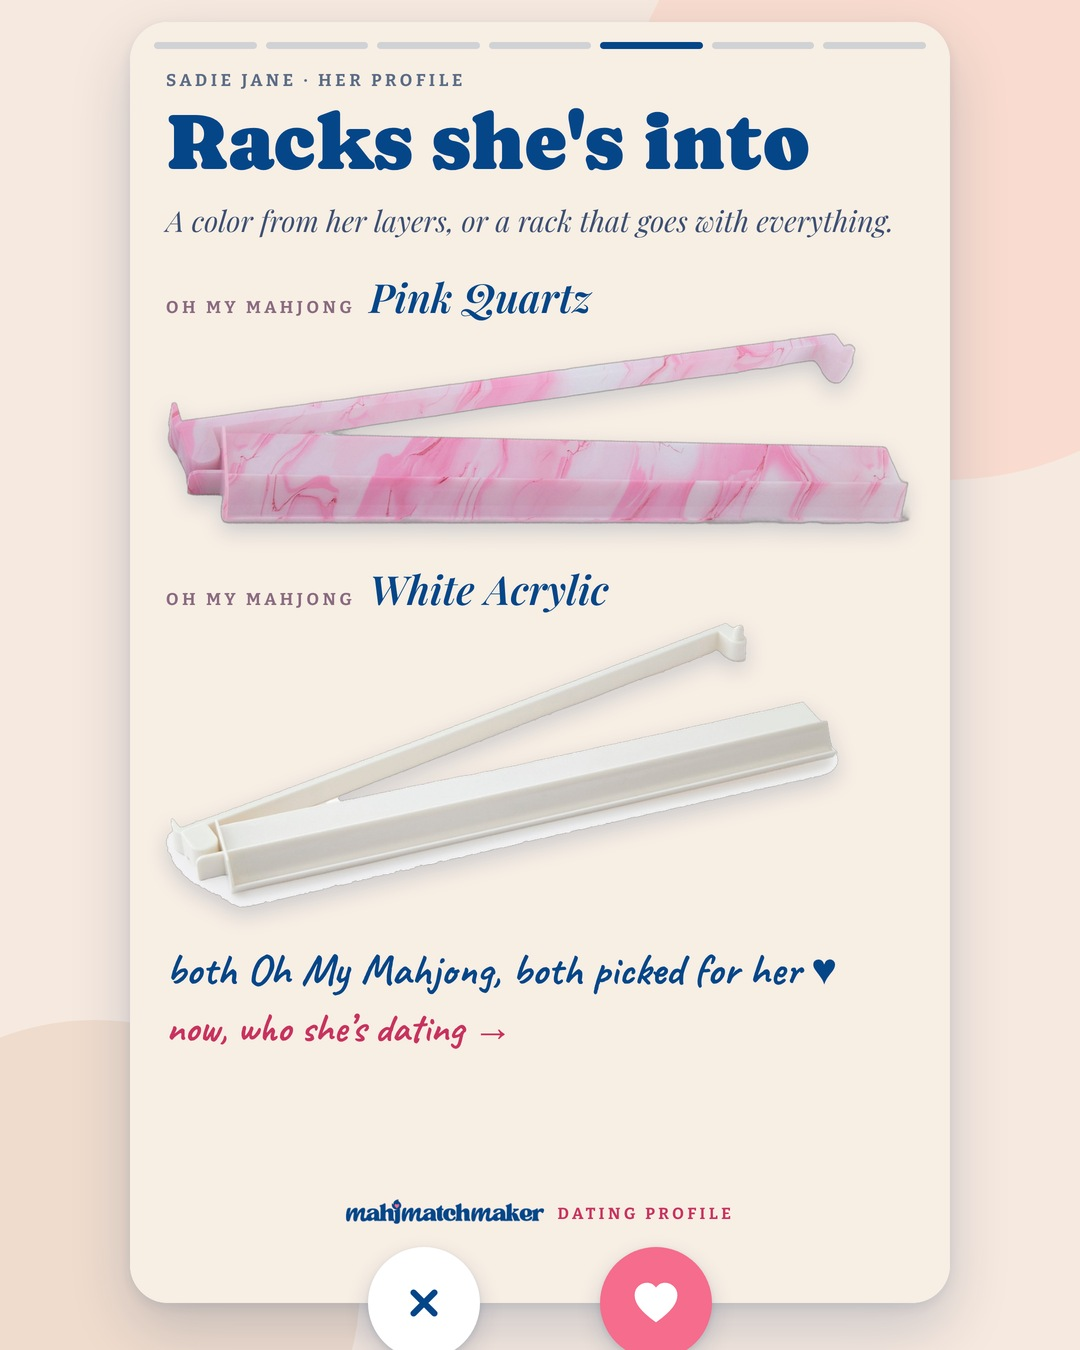
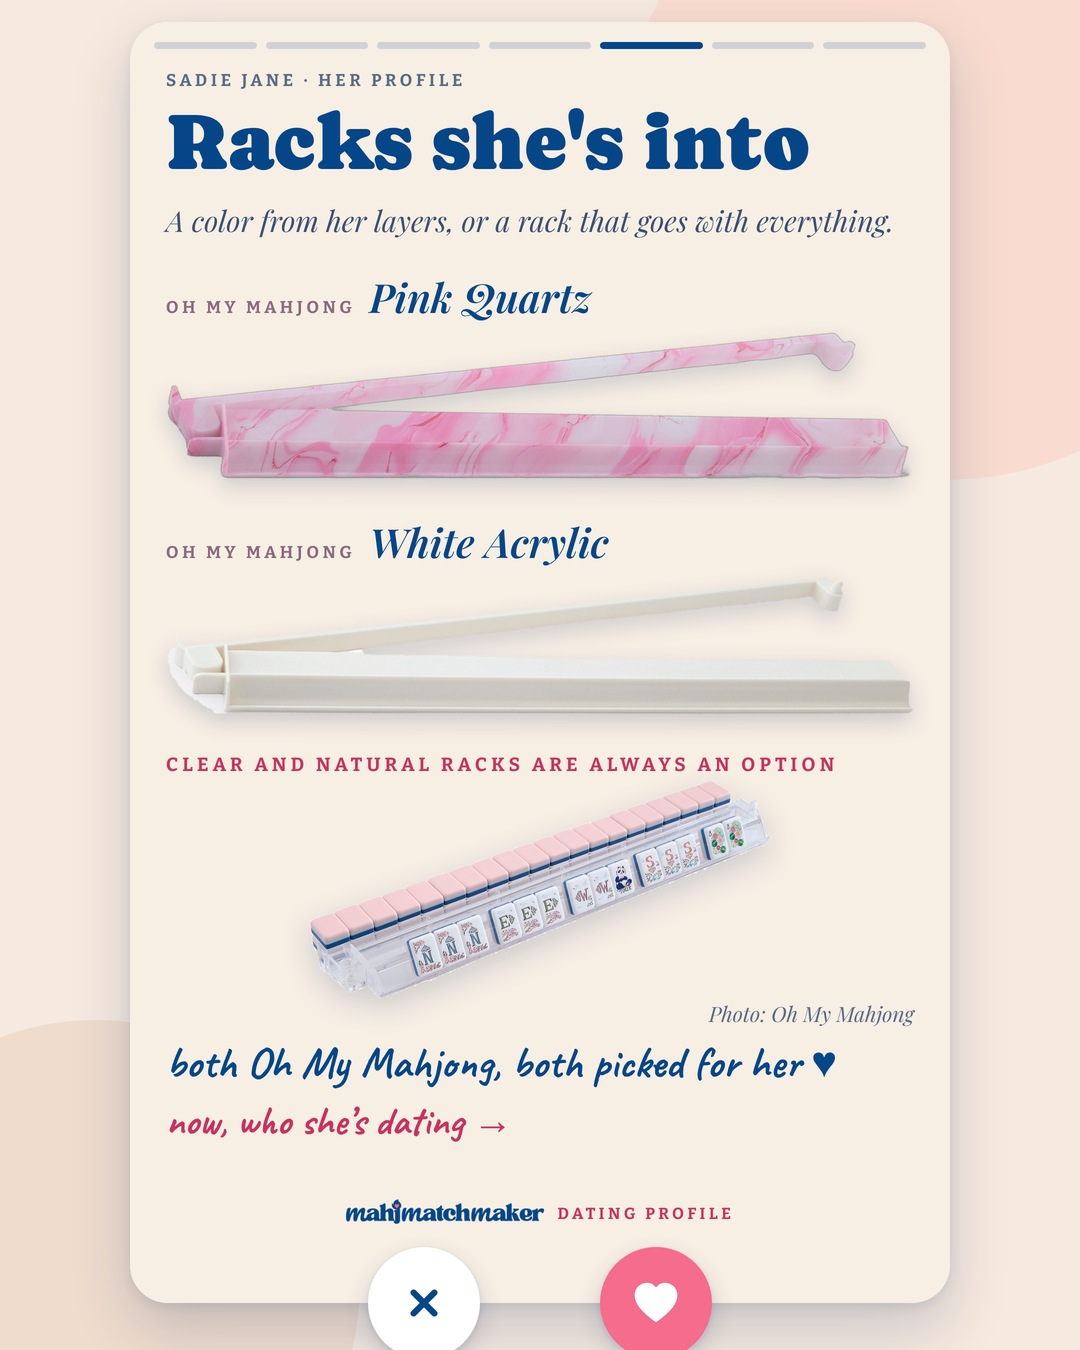
Sadie Jane profile racks slide: uniform OMM racks (real photos rotated to match), wall photo with clear/natural line
Claude-Session: https://claude.ai/code/session_01UWZfuwFYQL37EbBDGV2NZF

Changed region(s): [[0.1528, 0.2489, 0.8556, 0.84]]

diff --git a/scripts/social/tileprofile/intro_framed.py b/scripts/social/tileprofile/intro_framed.py
@@ -101,7 +101,7 @@ s4 = (hdr(('Her best features', 72)) +
       f'{ab(L, 676, "display:flex;justify-content:space-between", W)}{sing}</div>')
 
 # ---- slide 5: racks she's into
-RACK = {'Oh My Mahjong White Acrylic': 'assets/racks/card/oh-my-mahjong-white-acrylic-product.png', 'Bird & Bamboo Ballet Pink': 'assets/racks/card/bird-and-bamboo-ballet-pink.png', 'Bird & Bamboo French Blue': 'assets/racks/card/bird-and-bamboo-french-blue.png', 'Oh My Mahjong Pink Quartz': 'assets/racks/card/oh-my-mahjong-pink-quartz.png', 'Oh My Mahjong Hot Pink': 'assets/racks/card/oh-my-mahjong-hot-pink.png', 'Oh My Mahjong Agate': 'assets/racks/card/oh-my-mahjong-agate.png', 'Bird & Bamboo Lavender': 'assets/colorcards/papaya-spritz/racks/bird-and-bamboo-lavender.png', 'Peace Love Mahjong Chartreuse': 'assets/racks/card/peace-love-mahjong-chartreuse.png',
+RACK = {'Oh My Mahjong White Acrylic': 'assets/racks/card/oh-my-mahjong-white-acrylic-matched.png', 'Bird & Bamboo Ballet Pink': 'assets/racks/card/bird-and-bamboo-ballet-pink.png', 'Bird & Bamboo French Blue': 'assets/racks/card/bird-and-bamboo-french-blue.png', 'Oh My Mahjong Pink Quartz': 'assets/racks/card/oh-my-mahjong-pink-quartz-matched.png', 'Oh My Mahjong Hot Pink': 'assets/racks/card/oh-my-mahjong-hot-pink.png', 'Oh My Mahjong Agate': 'assets/racks/card/oh-my-mahjong-agate.png', 'Bird & Bamboo Lavender': 'assets/colorcards/papaya-spritz/racks/bird-and-bamboo-lavender.png', 'Peace Love Mahjong Chartreuse': 'assets/racks/card/peace-love-mahjong-chartreuse.png',
         'Peace Love Mahjong Oak': 'assets/racks/card/peace-love-mahjong-oak.png', 'Middle & Main Scalloped Beechwood': 'assets/racks/card/middle--main-scalloped-beechwood.png',
         'Mahjong Row & Co. Scalloped Tortoise': 'assets/racks/card/mahjong-row--co-scalloped-tortoise.png'}
 RACK.update({k: v for k, v in S.get('rack_imgs', {}).items() if k not in RACK})   # Nov 11: colour-card rack photos (as carousel.py)
@@ -124,10 +124,11 @@ if _ver:
              f'<span class="pf" style="font-size:27px;color:#3c4f73">my go-tos with any set</span></div>{_ver}'
              f'<div class="hand" style="font-size:40px;margin-top:22px;color:var(--pink)">now, who she&rsquo;s dating &rarr;</div>')
 else:
-    _body = (grp("color") + f'<div class="hand" style="font-size:44px;margin-top:34px;color:var(--navy)">{P.get("racks_hand_framed") or P.get("racks_hand", "all three picked for her, not just any rack")} &hearts;</div>'
-             f'<div class="hand" style="font-size:40px;margin-top:6px;color:var(--pink)">now, who she&rsquo;s dating &rarr;</div>'
-             + (((f'<img src="{url(P["racks_photo"])}" style="display:block;width:{int(W*0.5)}px;margin:0 auto;filter:drop-shadow(0 10px 14px rgba(6,40,90,.18))">') if P["racks_photo"].endswith('.png') else f'<div style="margin-top:24px;height:360px;border-radius:18px;overflow:hidden;box-shadow:0 8px 22px rgba(6,40,90,.14);background:#fff url({url(P["racks_photo"])}) center/cover no-repeat"></div>')
-                + f'<div class="pf" style="font-size:22px;color:#5a6b85;margin-top:8px">{e(P.get("racks_photo_caption", ""))}</div>' if P.get('racks_photo') else ''))
+    _photo = ((f'<div class="caps" style="font-size:19px;color:var(--pink);margin-top:26px">{e(P.get("racks_photo_head", ""))}</div>'
+               f'<img src="{url(P["racks_photo"])}" style="display:block;width:{int(W*0.62)}px;margin:4px auto 0;filter:drop-shadow(0 10px 14px rgba(6,40,90,.18))">'
+               f'<div class="pf" style="font-size:21px;color:#5a6b85;margin-top:0;text-align:right">{e(P.get("racks_photo_caption", ""))}</div>') if P.get('racks_photo') else '')
+    _body = (grp("color") + _photo + f'<div class="hand" style="font-size:44px;margin-top:8px;color:var(--navy)">{P.get("racks_hand_framed") or P.get("racks_hand", "all three picked for her, not just any rack")} &hearts;</div>'
+             f'<div class="hand" style="font-size:40px;margin-top:6px;color:var(--pink)">now, who she&rsquo;s dating &rarr;</div>')
 s5 = (hdr(("Racks she's into", 80)) +
       f'{ab(L, 180, "", W)}<div class="pf" style="font-size:29px;line-height:1.25;color:#3c4f73">A color from her layers, or a rack that goes with everything.</div>'
       + _body + '</div>')

diff --git a/docs/ANSWERS.md b/docs/ANSWERS.md
@@ -1747,3 +1747,4 @@ Tiffany: tabletop room images look AI, don't want them. Use the clean flat/aeria
 - 2026-11-23 7:33pm Tiffany: the MATCH DM must send BOTH Find Your Mat-ch and the mock-up albums (her term: 'mock-up albums'), each with a picture card. DONE: both automations (comments on posts/reels; story replies) now send a 2-card gallery: Find Your Mat-ch (share-fym graphic) -> /find-your-match, Mock-up albums (album covers collage card, assets/social/dm-cards) -> /mahjong-tile-matches. Both URLs 200. Live DM test needs a real comment (asked her). (Main)
 - 2026-11-23 7:35pm Tiffany (STANDING): every social item goes on HQ's Social tab ready to post: media, reel cover, ONE copy-paste caption (with hashtags, Google-aware keywords, not spammy, her real voice: short, excited/upbeat, never flat 'Now matching Sadie Jane.'), plus a notes field (song, tags, stories). This supersedes the Nov 10 'plain facts only / plain_post.py' caption rule for her captions; still never claim she loves a product she hasn't said she likes. 7:36pm: fine with 'Comment MATCH' on posts/reels and 'Reply MATCH' on stories. DONE: posts/2026-11-24-sadie-jane-profile (8 slides), posts/2026-11-24-sadie-jane-fym-table-carousel (7 slides, phone; post only after FYM round 2 is live), posts/2026-11-25-sadie-jane-reel (building). (Main)
 - 2026-11-23 7:36pm Tiffany: racks slide 'dead wrong': follow the Juniper template (isolated OMM product rack photos, all the same size, nothing else; the 'both picked for her' line optional). DONE: wall photo removed, OMM White product cutout sized to the Pink Quartz template; HQ post media updated. (Main)
+- 2026-11-23 7:40-7:42pm Tiffany: profile rack slide = every rack the SAME shape, angle and size, fully isolated (template: Juniper Hot Pink + Agate). Edit the real product photos to match (rotate/scale OMM's own White photo), never a white box. Keep the Sadie Jane wall photo on the slide with "Clear and natural racks are always an option" (Photo: Oh My Mahjong). Done: assets/racks/card/oh-my-mahjong-{white-acrylic,pink-quartz}-matched.png, slide 5 rebuilt, HQ post updated. Planoly FB reconnect done 7:42pm: MATCH automation shows no permission warnings now.
